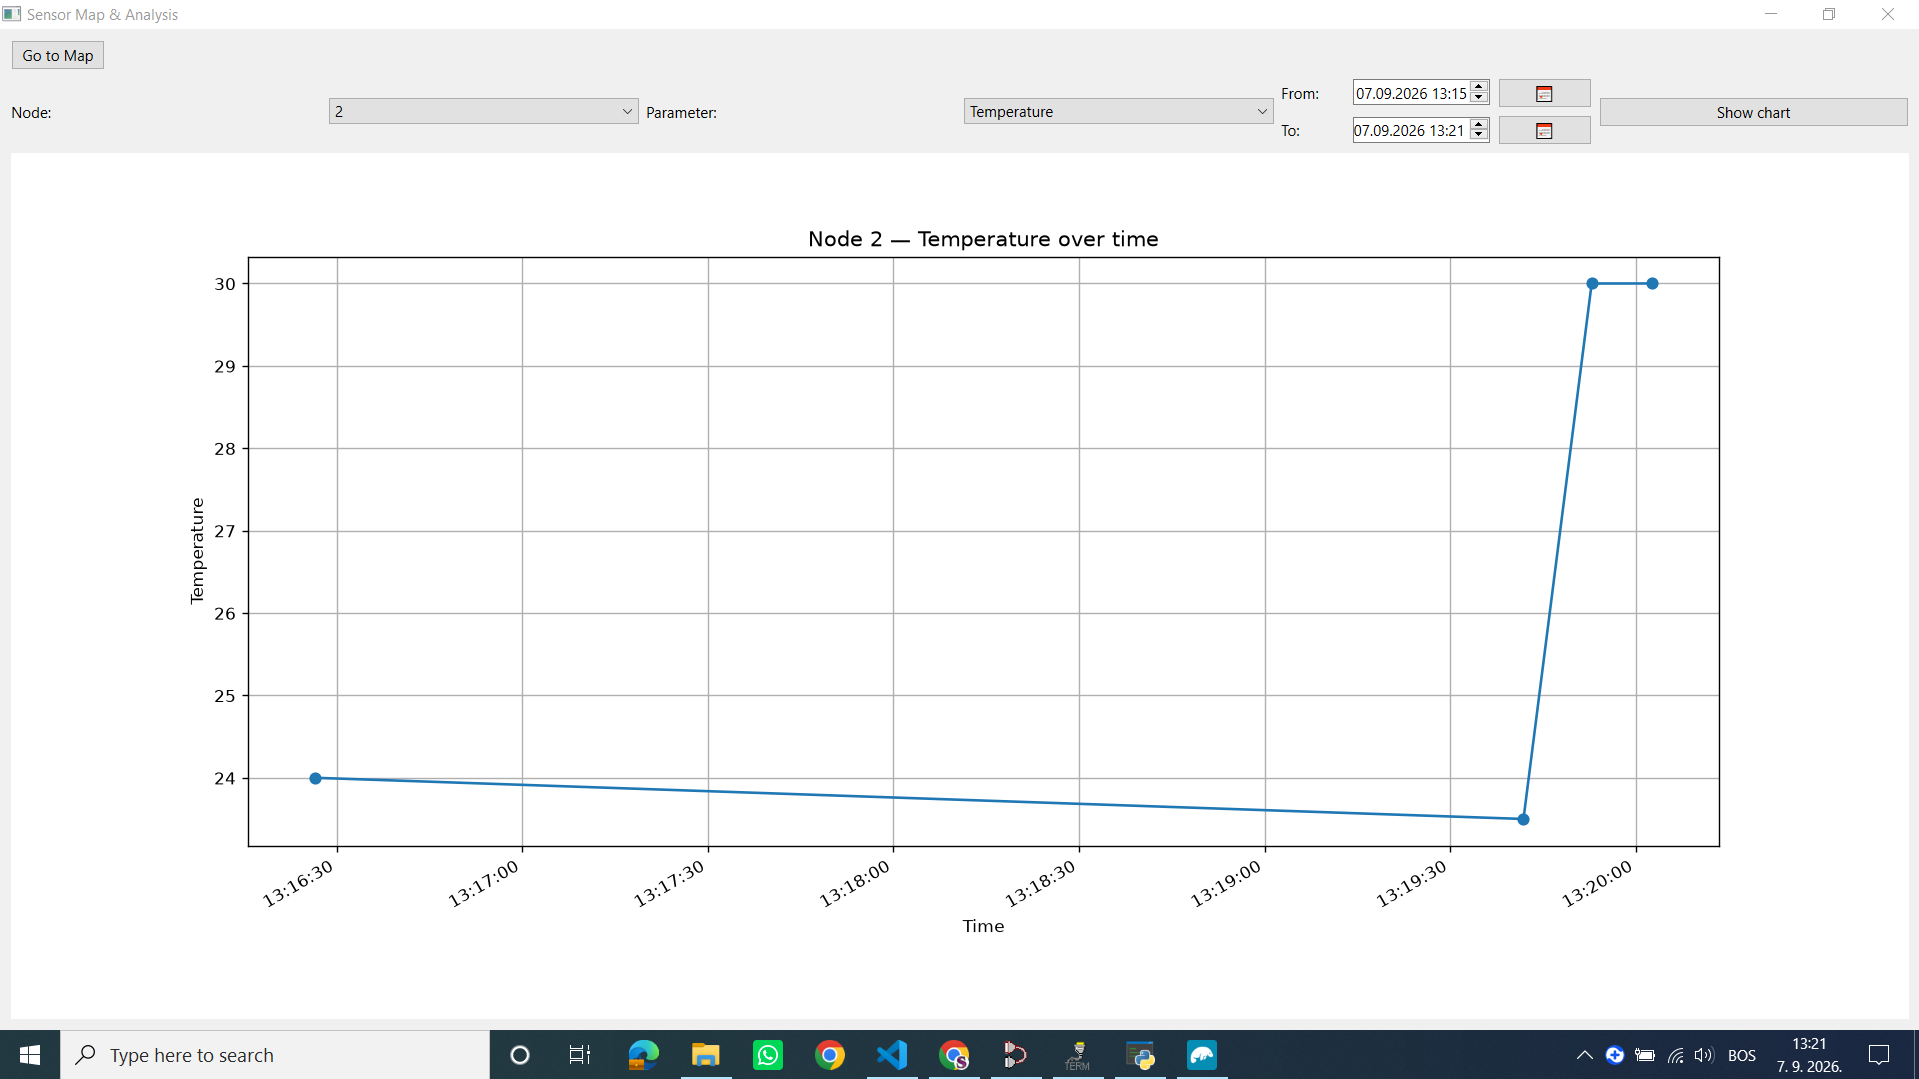
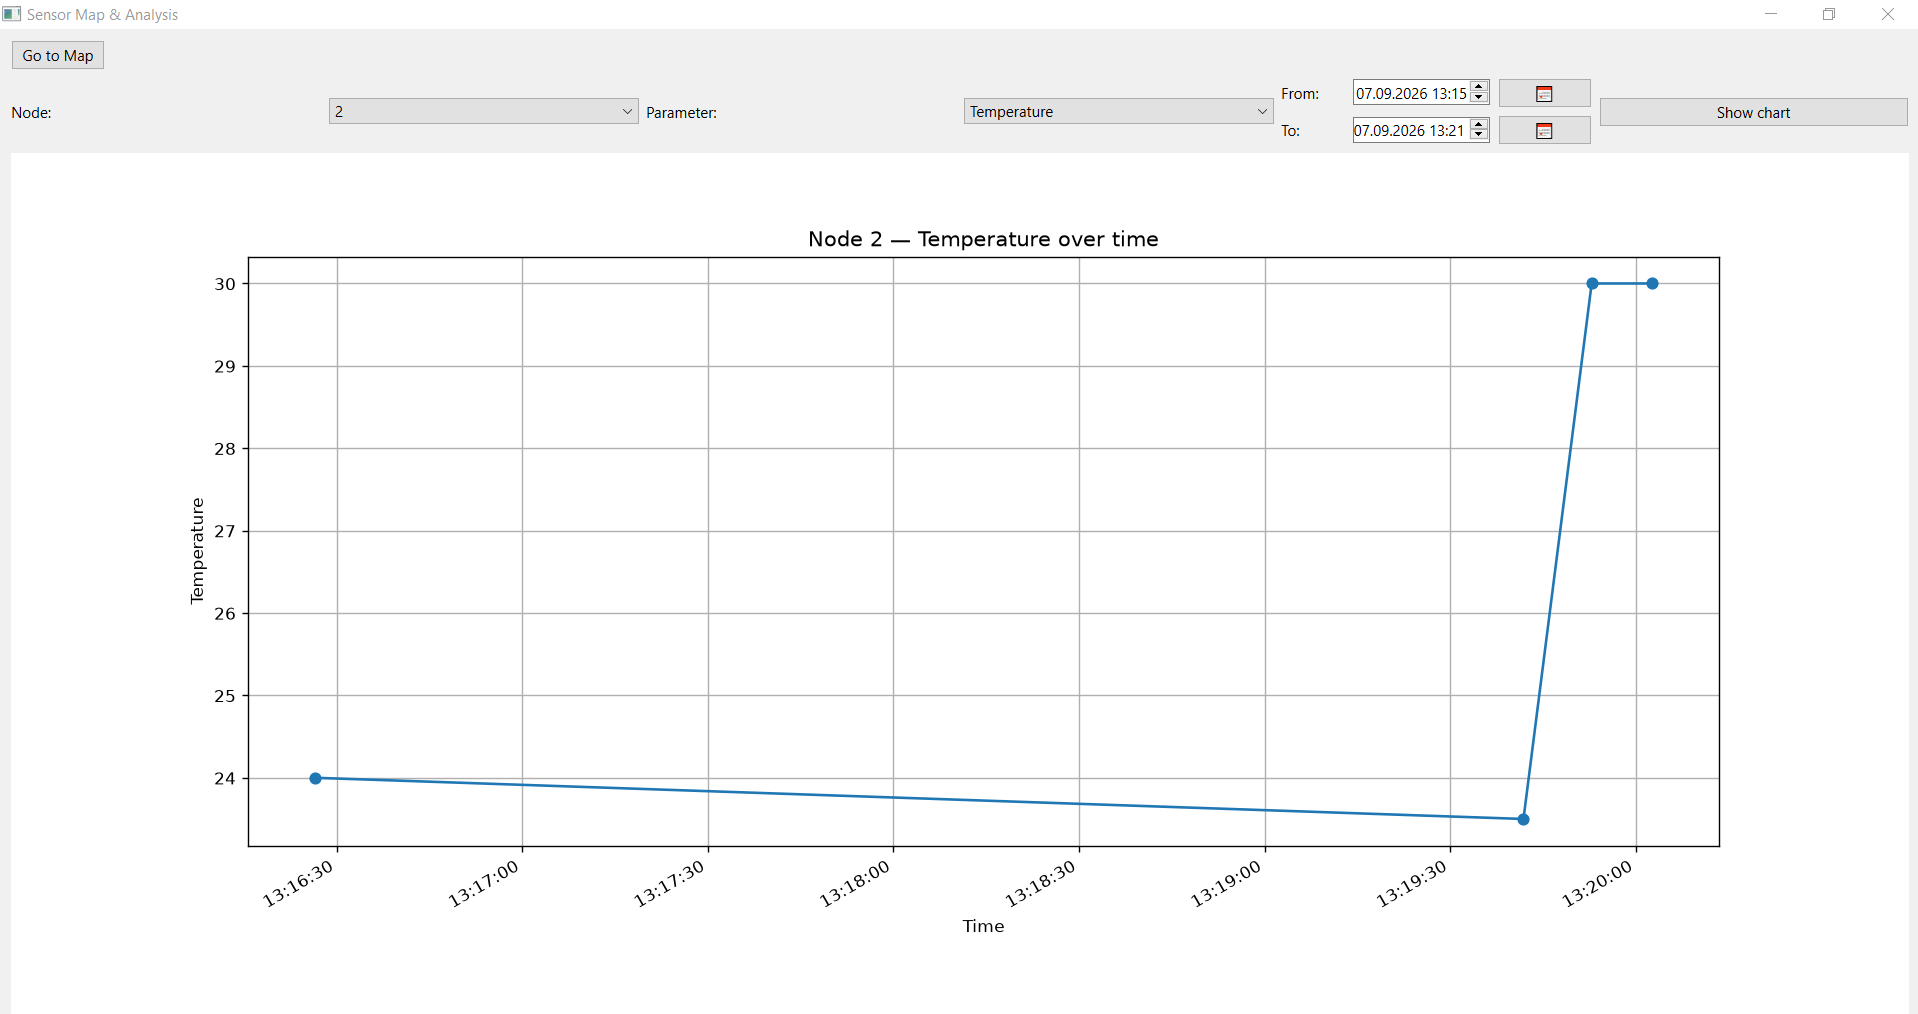
final 2

diff --git a/README.md b/README.md
@@ -1,4 +1,4 @@
-# Sensor Data Simulation and Map Visualization
+# GeoSensorMonitor
 
 A desktop application that simulates sensor-data transmission over a virtual COM
 port, stores each reading in MongoDB, and visualizes both live and historical
